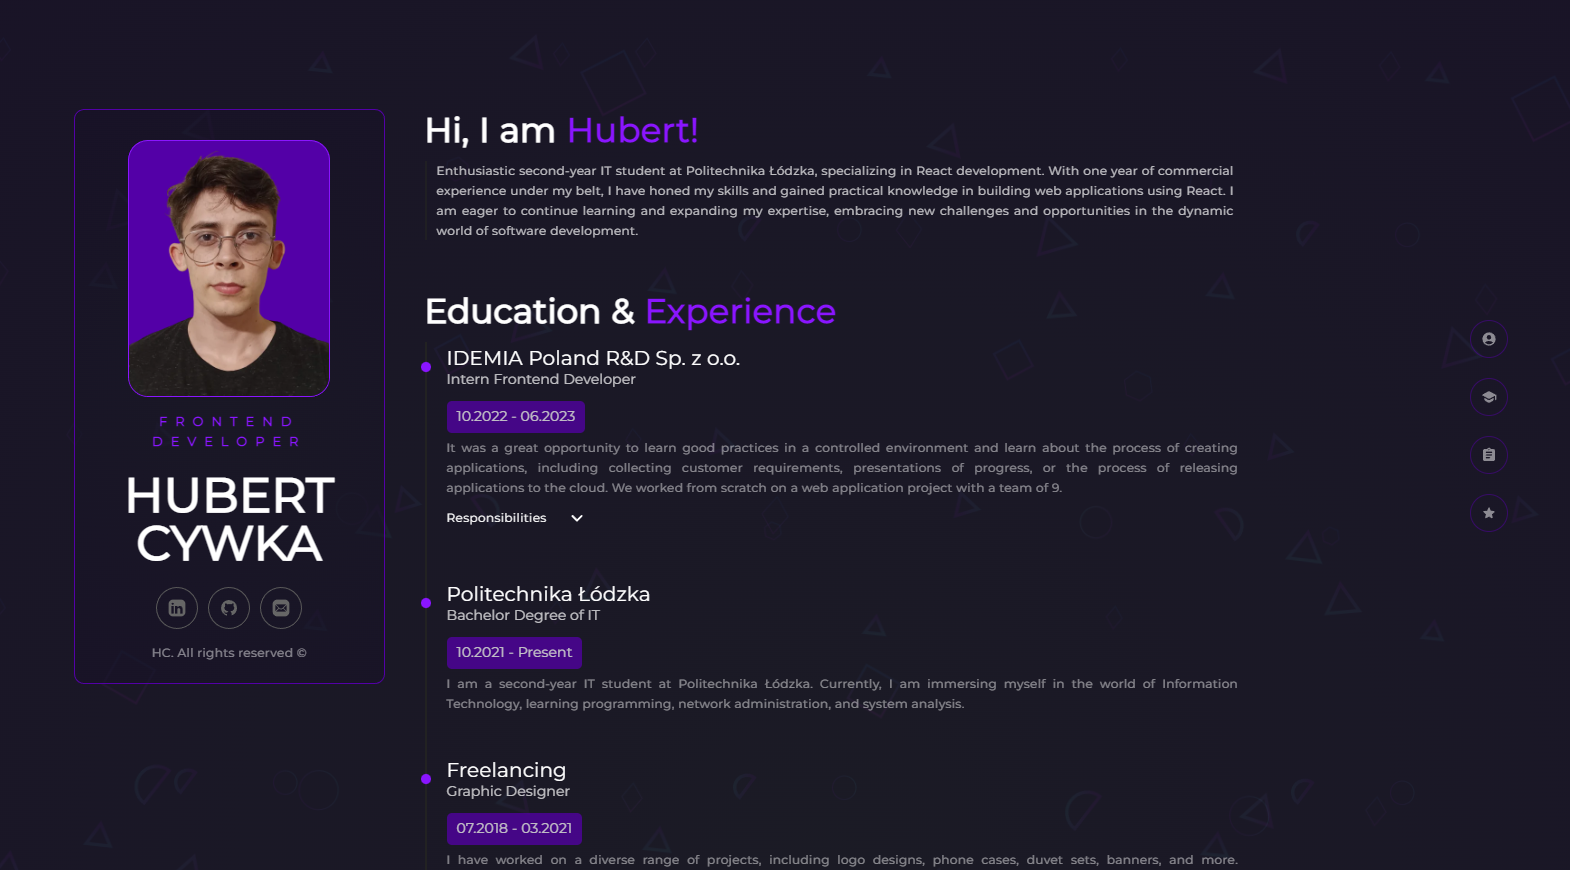
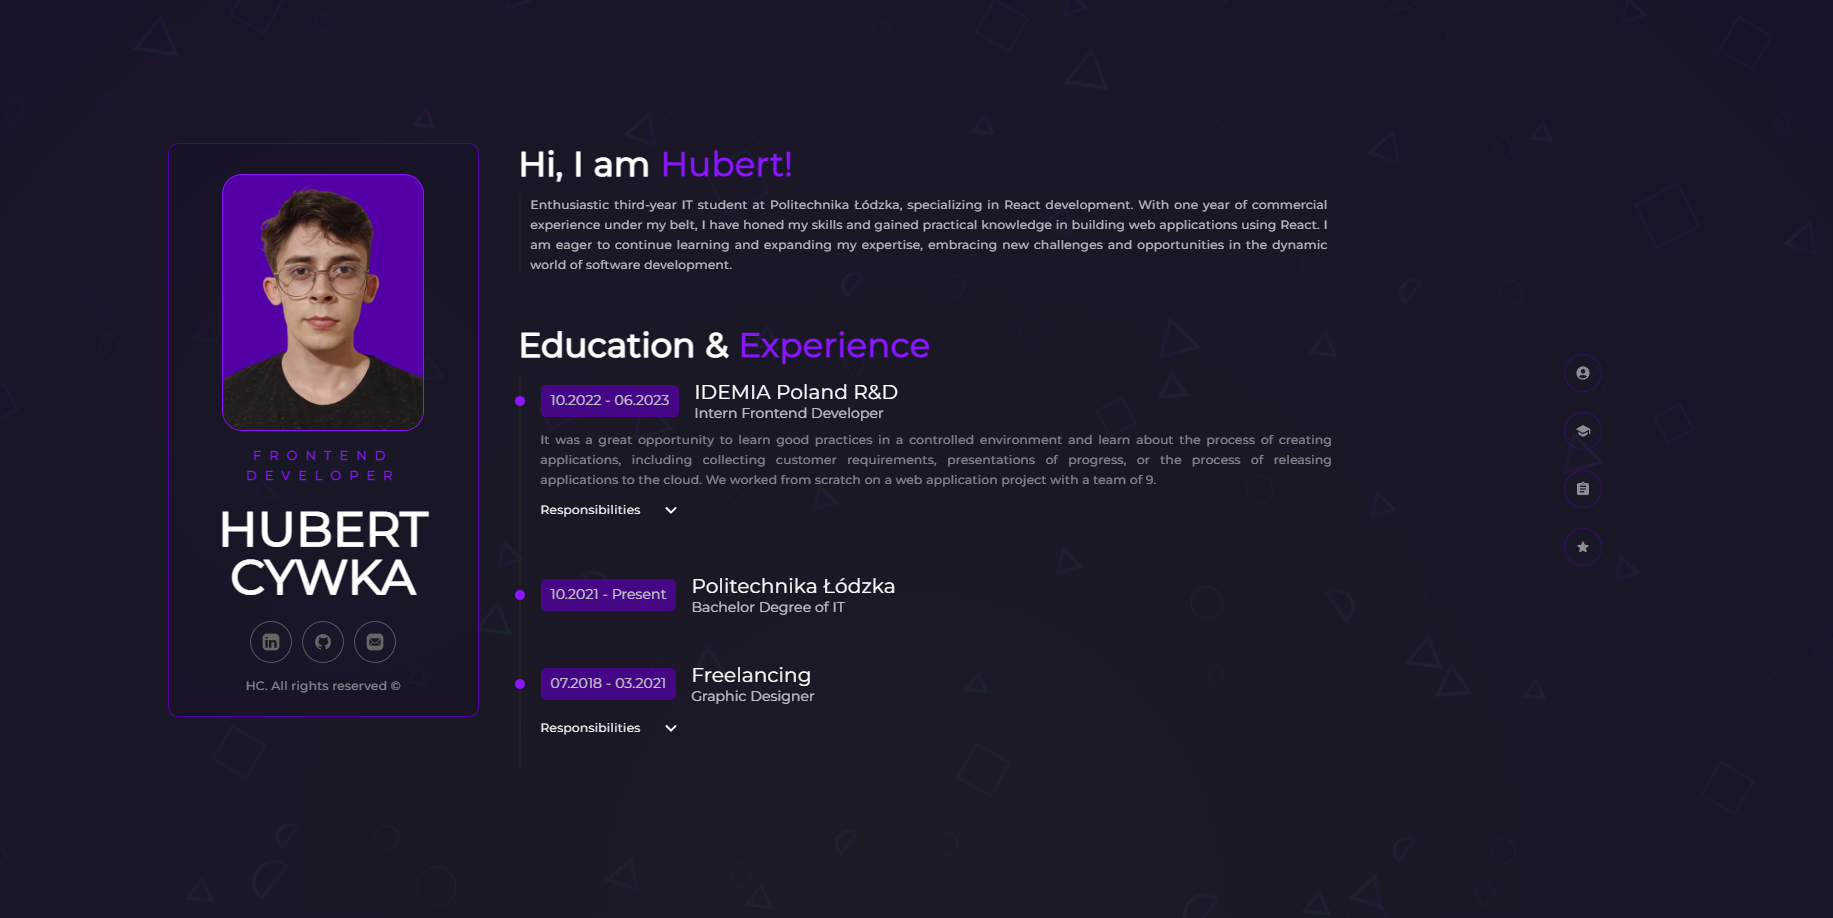
P-33: Updated README images and few css fixes

diff --git a/src/components/content/about-developer/AboutDeveloper.scss b/src/components/content/about-developer/AboutDeveloper.scss
@@ -48,9 +48,8 @@
     .text-container {
       .role {
         color: $purple-lighter;
-        font-size: $s-font;
-        letter-spacing: 0.5rem;
-        font-weight: 700;
+        letter-spacing: 0.35rem;
+        font-weight: 900;
         margin-bottom: $spacing-xl;
       }
 
